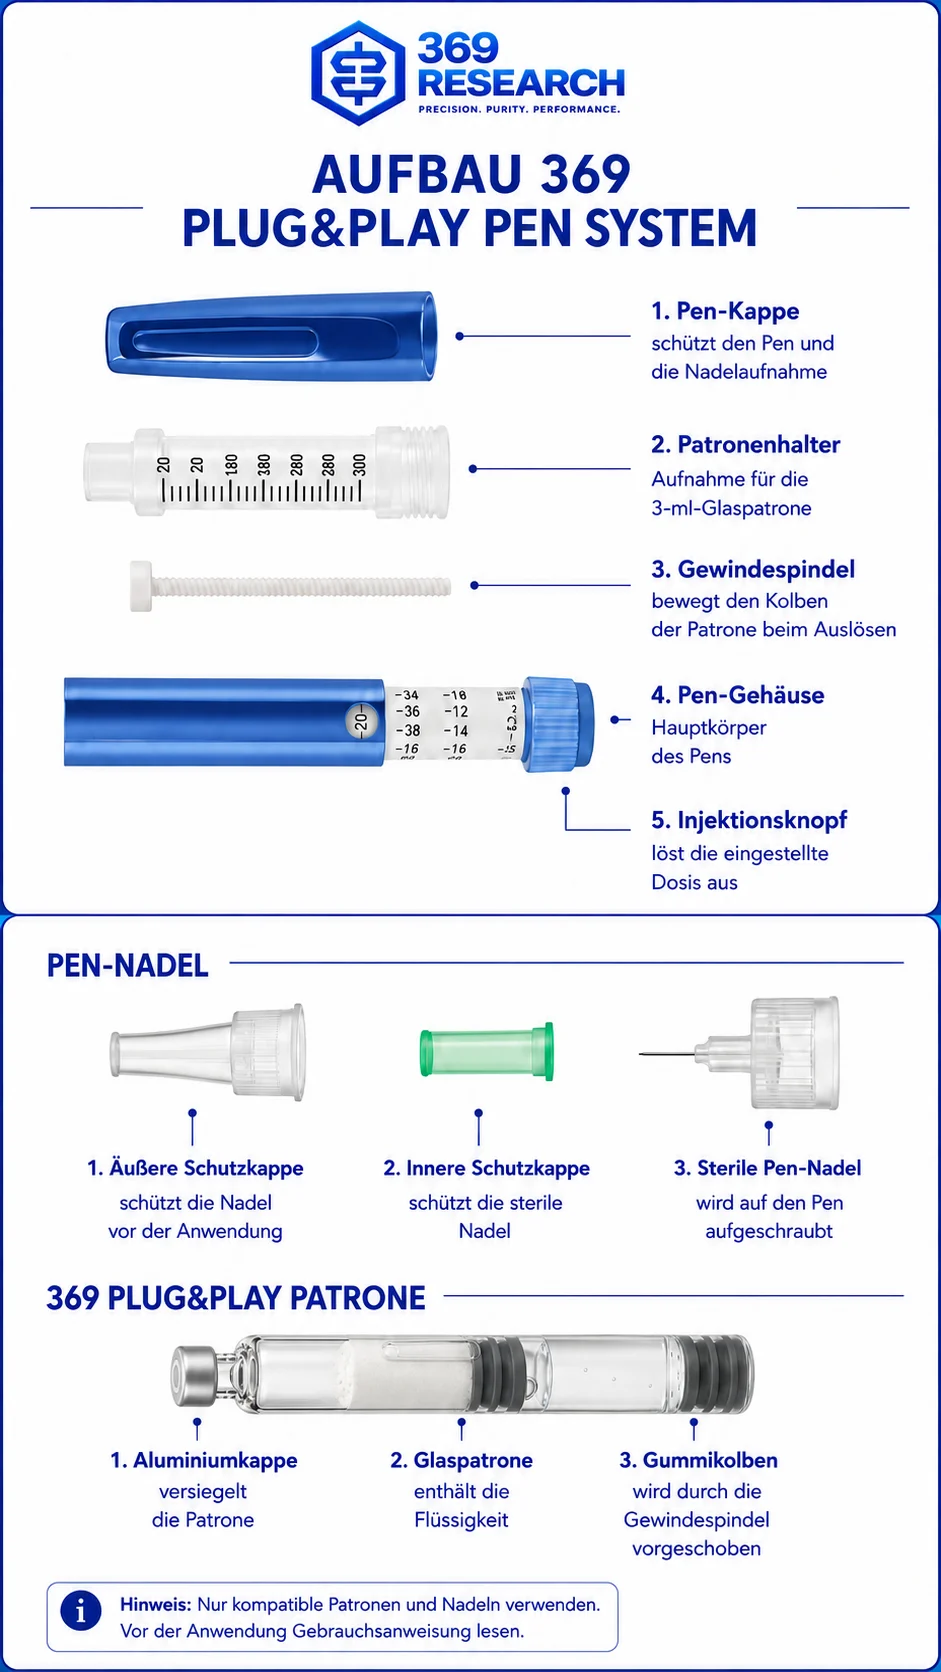
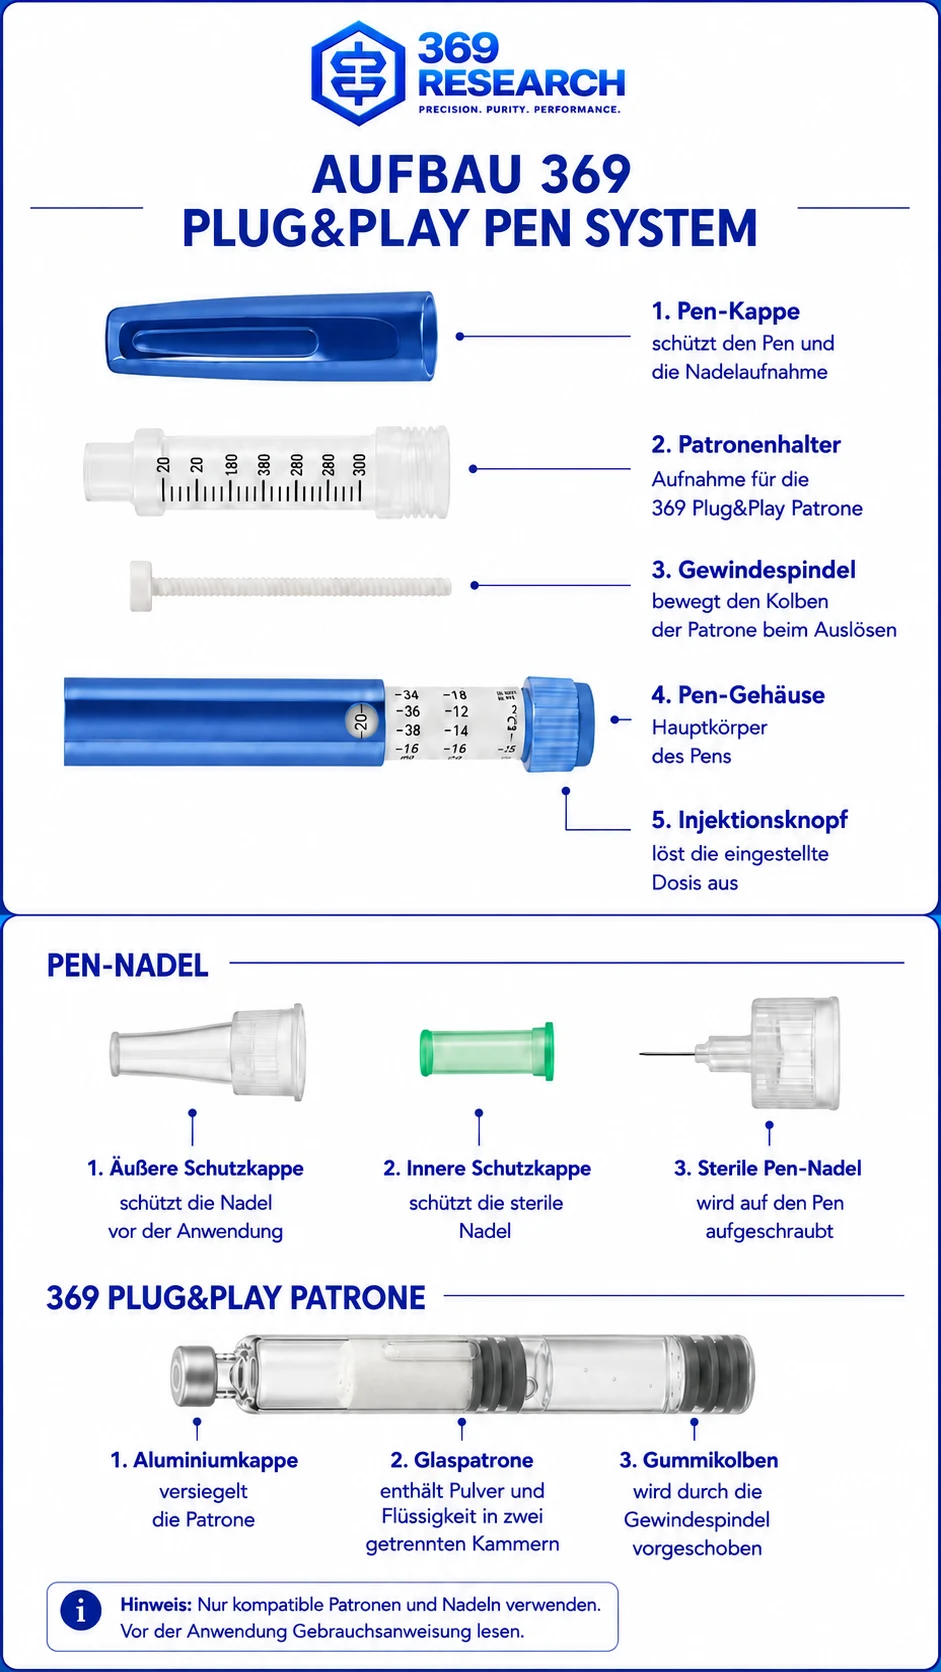
fix: replace internal copy with concise 369 Plug&Play product presentation

diff --git a/src/components/SchemaOrg.tsx b/src/components/SchemaOrg.tsx
@@ -18,7 +18,7 @@ export default function SchemaOrg() {
       "@context": "https://schema.org",
       "@type": "WebPage",
       name: "Der erste echte Peptid-Pen Europas | 369 Research",
-      description: "Wiederverwendbarer 369 Peptid-Pen mit austauschbaren Plug&Play Doppelkammerpatronen. Forschungsprodukt und BAC-Wasser werden erst per Klick direkt in der Patrone gemischt.",
+      description: "369 Peptid-Pen mit austauschbarer 369 Plug&Play Patrone. Ein Klick verbindet Pulver und BAC-Wasser direkt in der Patrone.",
       url: config.siteUrl,
       inLanguage: "de-DE",
       publisher: {
@@ -29,10 +29,9 @@ export default function SchemaOrg() {
     };
 
     const faqItems = [
-      ["Was ist eine 369 Plug&Play Patrone?", "Eine Doppelkammerpatrone, in der Forschungsprodukt und BAC-Wasser bis zur Aktivierung getrennt bleiben."],
+      ["Was ist eine 369 Plug&Play Patrone?", "Die 369 Plug&Play Patrone enthält Pulver und BAC-Wasser in zwei getrennten Kammern. Ein Klick verbindet beide Inhalte direkt in der Glaspatrone."],
       ["Wie funktioniert die Aktivierung?", "Ein Klick verbindet beide Kammern und mischt den Inhalt direkt in der Patrone."],
-      ["Ist gekühlter Versand erforderlich?", "Nein. Die ungeöffnete Doppelkammerpatrone wird erst bei der Aktivierung gemischt."],
-      ["Brauche ich für jedes Produkt einen neuen Pen?", "Nein. Der Pen wird wiederverwendet; nur die Plug&Play Patrone wird gewechselt."],
+      ["Kann ich den Pen wiederverwenden?", "Ja. Du behältst den 369 Peptid-Pen und wechselst die 369 Plug&Play Patrone."],
       ["Sind die Produkte für den menschlichen Gebrauch bestimmt?", "Nein. Alle Produkte sind ausschließlich für Forschungszwecke bestimmt."],
     ];
 
@@ -50,7 +49,7 @@ export default function SchemaOrg() {
       "@context": "https://schema.org",
       "@type": "Product",
       name: `${product.name} 369 Plug&Play Patrone`,
-      description: `${product.name} als austauschbare 369 Plug&Play Doppelkammerpatrone für den wiederverwendbaren Peptid-Pen. Research Use Only.`,
+      description: `${product.name} als 369 Plug&Play Patrone für den 369 Peptid-Pen. Research Use Only.`,
       image: product.mockupImage ?? undefined,
       url: getShopProductUrl(product.shopProductId),
       brand: { "@type": "Brand", name: "369 Research" },
@@ -68,7 +67,7 @@ export default function SchemaOrg() {
       "@context": "https://schema.org",
       "@type": "Product",
       name: "369 Research Pen",
-      description: "Wiederverwendbarer 369 Peptid-Pen inklusive neuem Case und 3 Pen-Nadeln für austauschbare Plug&Play Doppelkammerpatronen. Research Use Only.",
+      description: "369 Peptid-Pen inklusive Case und 3 Pen-Nadeln. Kompatibel mit der 369 Plug&Play Patrone. Research Use Only.",
       image: penProduct?.mockupImage ?? "https://www.369research.eu/products/peptidpen-case-1.png",
       url: `${config.shopBaseUrl}/product/forscherpen`,
       brand: { "@type": "Brand", name: "369 Research" },

diff --git a/netlify/functions/merchant-feed.ts b/netlify/functions/merchant-feed.ts
@@ -32,8 +32,8 @@ export const handler: Handler = async () => {
 
     return `  <item>
     <g:id>${p.shopProductId}-patrone</g:id>
-    <g:title>${escapeXml(p.name)} — 369 Plug&amp;Play Doppelkammerpatrone</g:title>
-    <g:description>${escapeXml(`${p.name} als austauschbare 369 Plug&Play Doppelkammerpatrone. Forschungsprodukt und BAC-Wasser bleiben bis zur Aktivierung getrennt. Research Use Only.`)}</g:description>
+    <g:title>${escapeXml(p.name)} — 369 Plug&amp;Play Patrone</g:title>
+    <g:description>${escapeXml(`${p.name} als 369 Plug&Play Patrone. Pulver und BAC-Wasser bleiben bis zur Aktivierung getrennt. Research Use Only.`)}</g:description>
     <g:link>${productUrl}</g:link>
     <g:image_link>${escapeXml(p.image || p.mockupImage || PEN_IMAGE)}</g:image_link>
     <g:condition>new</g:condition>
@@ -41,7 +41,7 @@ export const handler: Handler = async () => {
     <g:price>${patronenPreis} EUR</g:price>
     <g:brand>369 Research</g:brand>
     <g:google_product_category>5765</g:google_product_category>
-    <g:product_type>Peptide &gt; Plug&Play Patronen &gt; Plug&amp;Play Patronen</g:product_type>
+    <g:product_type>Peptide &gt; 369 Plug&amp;Play Patrone</g:product_type>
     <g:identifier_exists>no</g:identifier_exists>
     <g:adult>no</g:adult>
     <g:custom_label_0>PlugPlay</g:custom_label_0>
@@ -55,7 +55,7 @@ export const handler: Handler = async () => {
   const penItem = `  <item>
     <g:id>forscherpen-369research</g:id>
     <g:title>Peptidpen 369 Research mit Case und 3 Pen-Nadeln</g:title>
-    <g:description>Wiederverwendbarer 369 Research Peptid-Pen inklusive Case und 3 Pen-Nadeln für austauschbare Plug&amp;Play Doppelkammerpatronen. Research Use Only.</g:description>
+    <g:description>369 Peptid-Pen inklusive Case und 3 Pen-Nadeln. Kompatibel mit der 369 Plug&amp;Play Patrone. Research Use Only.</g:description>
     <g:link>${PEN_BUY_URL}</g:link>
     <g:image_link>${PEN_IMAGE}</g:image_link>
     <g:condition>new</g:condition>
@@ -75,9 +75,9 @@ export const handler: Handler = async () => {
   const xml = `<?xml version="1.0" encoding="UTF-8"?>
 <rss version="2.0" xmlns:g="http://base.google.com/ns/1.0">
   <channel>
-    <title>Peptidpen &amp; Plug&Play Patronen — Plug&amp;Play Patrone für Peptide | 369 Research</title>
+    <title>369 Peptid-Pen &amp; 369 Plug&amp;Play Patrone | 369 Research</title>
     <link>https://www.peptidpen.de</link>
-    <description>369 Plug&amp;Play Doppelkammerpatronen für den wiederverwendbaren Peptid-Pen. Research Use Only.</description>
+    <description>369 Plug&amp;Play Patrone für den 369 Peptid-Pen. Research Use Only.</description>
 ${penItem}
 ${items.join("\n")}
   </channel>

diff --git a/src/components/FaqSection.tsx b/src/components/FaqSection.tsx
@@ -3,31 +3,19 @@ import { useState } from "react";
 const faqs = [
   {
     q: "Was ist eine 369 Plug&Play Patrone?",
-    a: "Eine austauschbare Doppelkammerpatrone für den 369 Peptid-Pen. Das lyophilisierte Forschungsprodukt und das BAC-Wasser befinden sich bis zur Aktivierung getrennt in zwei Kammern.",
+    a: "Die 369 Plug&Play Patrone enthält Pulver und BAC-Wasser in zwei getrennten Kammern. Ein Klick verbindet beide Inhalte direkt in der Glaspatrone.",
   },
   {
     q: "Wie wird die Patrone aktiviert?",
     a: "Durch einen Klick wird die Verbindung zwischen den Kammern geöffnet. Das BAC-Wasser gelangt zum Forschungsprodukt und beides wird direkt in der Patrone vermischt.",
   },
   {
-    q: "Werden die Patronen fertig gemischt geliefert?",
-    a: "Nein. Forschungsprodukt und BAC-Wasser bleiben während Lagerung und Versand getrennt. Die Vermischung erfolgt erst bei der Aktivierung der Doppelkammerpatrone.",
-  },
-  {
-    q: "Ist gekühlter Versand notwendig?",
-    a: "Nein. Da der Inhalt erst bei der Aktivierung gemischt wird, ist für den Versand der ungeöffneten Plug&Play Doppelkammerpatrone keine Kühlkette erforderlich.",
-  },
-  {
     q: "Was enthält das Peptid-Pen Set für 49 €?",
-    a: "Den wiederverwendbaren 369 Peptid-Pen, das neue Case und drei Pen-Nadeln. Die gewünschte Plug&Play Patrone wird separat ausgewählt.",
+    a: "Den wiederverwendbaren 369 Peptid-Pen, das Case und drei Pen-Nadeln. Die 369 Plug&Play Patrone wählst du separat aus.",
   },
   {
-    q: "Gibt es einen Aufpreis für das Patronenformat?",
-    a: "Nein. Jede 369 Plug&Play Patrone hat einen eigenen festen Preis. Es gibt keinen pauschalen Aufpreis auf einen Vial-Preis.",
-  },
-  {
-    q: "Welche Produkte sind als Patrone erhältlich?",
-    a: "Passende injizierbare Forschungsprodukte. Nasale oder orale Produkte wie Semax und Adamax werden nicht als Plug&Play Patrone angeboten.",
+    q: "Kann ich den Pen wiederverwenden?",
+    a: "Ja. Du behältst den 369 Peptid-Pen und wechselst die 369 Plug&Play Patrone.",
   },
   {
     q: "Gelten die Mengenrabatte auch für Patronen?",
@@ -35,7 +23,7 @@ const faqs = [
   },
   {
     q: "Wie funktionieren Bestellung und Banküberweisung?",
-    a: "Die ausgewählte Patrone wird im bestehenden 369 Research Shop bestellt. Der Checkout zeigt die verfügbaren Zahlungsarten; bei Banküberweisung werden dort die bunq-Zahlungsdaten für die Bestellung angezeigt.",
+    a: "Du bestellst bei 369 Research. Bei Banküberweisung erhältst du im Bestellablauf die Bankverbindung und den Verwendungszweck.",
   },
 ];
 

diff --git a/src/components/SystemExplainer.tsx b/src/components/SystemExplainer.tsx
@@ -1,49 +1,17 @@
-const steps = [
-  {
-    image: "/assets/plugplay-doppelkammer.webp",
-    eyebrow: "GETRENNT GELAGERT",
-    title: "ZWEI KAMMERN. EINE PATRONE.",
-    text: "Das lyophilisierte Forschungsprodukt und das BAC-Wasser befinden sich getrennt in der 369 Plug&Play Patrone.",
-  },
-  {
-    image: "/assets/plugplay-mechanik.webp",
-    eyebrow: "MIT EINEM KLICK",
-    title: "VERBINDEN UND AKTIVIEREN.",
-    text: "Der Klick öffnet die Verbindung zwischen beiden Kammern. Das BAC-Wasser gelangt direkt zum Forschungsprodukt.",
-  },
-  {
-    image: "/assets/plugplay-aktiviert.webp",
-    eyebrow: "DIREKT IN DER PATRONE",
-    title: "MISCHEN. EINSETZEN. FORSCHEN.",
-    text: "Nach vollständiger Vermischung wird die Patrone in den wiederverwendbaren 369 Peptid-Pen eingesetzt.",
-  },
-];
-
 export default function SystemExplainer() {
   return (
     <section id="system" className="system-section">
       <div className="container mx-auto px-4">
         <div className="system-intro">
-          <div className="staging-kicker">DAS EINZIGARTIGE SYSTEM</div>
-          <h2 className="staging-heading">EIN KLICK.<br /><span>DIREKT GEMISCHT.</span></h2>
+          <h2 className="staging-heading">EIN KLICK.<br /><span>ALLES IN EINER PATRONE.</span></h2>
           <p>
-            Keine fertig gemischte Patrone und keine Kühlkette: Die zwei Kammern halten
-            Forschungsprodukt und BAC-Wasser bis zur Aktivierung voneinander getrennt.
+            Die zweigeteilte Glaspatrone enthält Pulver und BAC-Wasser in getrennten Kammern.
+            Ein Klick verbindet beides – ohne separates Umfüllen.
           </p>
         </div>
 
-        <div className="mechanism-grid">
-          {steps.map((step, index) => (
-            <article className="mechanism-card" key={step.title}>
-              <div className="mechanism-number">0{index + 1}</div>
-              <img src={step.image} alt={step.title} loading="lazy" />
-              <div className="mechanism-copy">
-                <span>{step.eyebrow}</span>
-                <h3>{step.title}</h3>
-                <p>{step.text}</p>
-              </div>
-            </article>
-          ))}
+        <div className="max-w-xl mx-auto">
+          <img src="/assets/plugplay-doppelkammer.webp" alt="369 Plug&Play Patrone mit getrenntem Pulver und BAC-Wasser" loading="lazy" className="w-full max-h-[420px] object-contain" />
         </div>
       </div>
     </section>

diff --git a/index.html b/index.html
@@ -5,8 +5,8 @@
     <meta name="viewport" content="width=device-width, initial-scale=1.0" />
 
     <title>Der erste echte Peptid-Pen Europas | 369 Research</title>
-    <meta name="description" content="369 Peptid-Pen mit austauschbaren Plug&Play Doppelkammerpatronen. Ein Klick verbindet Forschungsprodukt und BAC-Wasser direkt in der Patrone." />
-    <meta name="keywords" content="Peptid-Pen, Peptidpen, Forschungspen, 369 Plug&Play Patrone, Doppelkammerpatrone, 369 Research" />
+    <meta name="description" content="369 Peptid-Pen und 369 Plug&Play Patrone. Ein Klick verbindet Pulver und BAC-Wasser direkt in der Patrone. Entdecke das Set mit Case und die Produktauswahl." />
+    <meta name="keywords" content="Peptid-Pen, Peptidpen, 369 Plug&Play Patrone, 369 Research" />
     <link rel="canonical" href="https://peptidpen.de/" />
     <link rel="alternate" hreflang="de" href="https://peptidpen.de/" />
     <link rel="alternate" hreflang="x-default" href="https://peptidpen.de/" />
@@ -14,7 +14,7 @@
     <meta property="og:type" content="website" />
     <meta property="og:url" content="https://peptidpen.de/" />
     <meta property="og:title" content="Der erste echte Peptid-Pen Europas | 369 Research" />
-    <meta property="og:description" content="Austauschbare 369 Plug&Play Doppelkammerpatronen. Ein Klick verbindet beide Kammern und mischt direkt in der Patrone." />
+    <meta property="og:description" content="369 Plug&Play Patrone: Ein Klick verbindet Pulver und BAC-Wasser direkt in der Patrone." />
     <meta property="og:image" content="https://www.369research.eu/products/peptidpen-case-1.png" />
     <meta property="og:image:width" content="1200" />
     <meta property="og:image:height" content="630" />
@@ -24,7 +24,7 @@
 
     <meta name="twitter:card" content="summary_large_image" />
     <meta name="twitter:title" content="Der erste echte Peptid-Pen Europas" />
-    <meta name="twitter:description" content="369 Plug&Play Doppelkammerpatronen: getrennt gelagert, per Klick direkt in der Patrone gemischt." />
+    <meta name="twitter:description" content="369 Peptid-Pen und 369 Plug&Play Patrone. Ein Klick. Alles in einer Patrone." />
     <meta name="twitter:image" content="https://www.369research.eu/products/peptidpen-case-1.png" />
 
     <link rel="preconnect" href="https://fonts.googleapis.com" />

diff --git a/src/components/ProductsSection.tsx b/src/components/ProductsSection.tsx
@@ -58,8 +58,7 @@ function ProductCard({ product }: { product: ShopProduct }) {
         )}
 
         <div className="fixed-product-price mb-4">
-          <span>FESTER PATRONENPREIS</span>
-          <strong>ab {cartridgePrice} €</strong>
+          <strong>{hasVariants ? "ab " : ""}{cartridgePrice} €</strong>
         </div>
 
         <div className="flex items-center gap-1.5 mb-4">
@@ -104,11 +103,9 @@ export default function ProductsSection() {
     <section id="produkte" className="products-lab-section">
       <div className="container mx-auto px-4">
         <div className="text-center mb-12">
-          <span className="staging-kicker">DIREKTE PRODUKTAUSWAHL</span>
-          <h2 className="staging-heading">DEIN PRODUKT.<br /><span>DEINE PLUG&amp;PLAY PATRONE.</span></h2>
+          <h2 className="staging-heading">369 Plug&amp;Play Patrone</h2>
           <p className="section-subtitle mx-auto text-center mt-5">
-            Wähle das gewünschte Forschungsprodukt und die verfügbare Stärke.
-            Angezeigt werden ausschließlich passende injizierbare Forschungsprodukte.
+            Entdecke die Auswahl und wähle dein Produkt in der gewünschten Stärke.
           </p>
         </div>
 
@@ -167,7 +164,7 @@ export default function ProductsSection() {
 
         {!loading && (
           <div className="text-center mt-8 text-gray-400 text-sm">
-            {filtered.length} passende Plug&amp;Play Patronen
+            {filtered.length} Produkte
           </div>
         )}
 

diff --git a/src/components/CheckoutSection.tsx b/src/components/CheckoutSection.tsx
@@ -1,7 +1,7 @@
 const steps = [
-  ["01", "PATRONE WÄHLEN", "Forschungsprodukt und verfügbare Stärke direkt auf peptidpen.de auswählen."],
-  ["02", "IM HAUPTSHOP PRÜFEN", "Du landest auf der passenden Produktseite von 369 Research. Preis, Bestand und Mengenrabatt kommen aus dem bestehenden Shopsystem."],
-  ["03", "SICHER ABSCHLIESSEN", "Warenkorb und Checkout laufen vollständig über 369research.eu. Bei Banküberweisung werden die bunq-Zahlungsdaten im Bestellablauf angezeigt."],
+  ["01", "AUSWÄHLEN", "Wähle dein Produkt und die gewünschte Stärke."],
+  ["02", "BESTELLEN", "Lege deine Auswahl bei 369 Research in den Warenkorb."],
+  ["03", "BEZAHLEN", "Bei Banküberweisung erhältst du die Bankverbindung und den Verwendungszweck im Bestellablauf."],
 ];
 
 export default function CheckoutSection() {
@@ -10,8 +10,7 @@ export default function CheckoutSection() {
       <div className="container mx-auto px-4">
         <div className="checkout-intro">
           <div className="staging-kicker staging-kicker-light">BESTELLUNG &amp; ZAHLUNG</div>
-          <h2>DEINE AUSWAHL.<br /><span>DER BESTEHENDE 369 CHECKOUT.</span></h2>
-          <p>peptidpen.de erklärt und filtert. Bestellung, Zahlung, Lagerabzug und Versand bleiben vollständig im bewährten 369 Research Shop.</p>
+          <h2>IN WENIGEN SCHRITTEN<br /><span>ZU DEINER BESTELLUNG.</span></h2>
         </div>
         <div className="checkout-steps">
           {steps.map(([number, title, text]) => (

diff --git a/src/components/PenSystemBanner.tsx b/src/components/PenSystemBanner.tsx
@@ -13,8 +13,7 @@ export default function PenSystemBanner() {
             <div className="staging-kicker staging-kicker-light">AUFBAU 369</div>
             <h2>DER PEN BLEIBT.<br /><span>DIE PATRONE WECHSELT.</span></h2>
             <p>
-              Der 369 Peptid-Pen ist wiederverwendbar und mit den austauschbaren
-              369 Plug&amp;Play Patronen kompatibel.
+              Dein wiederverwendbarer 369 Peptid-Pen. Mit Case und drei Pen-Nadeln.
             </p>
             <div className="pen-price-card">
               <span>PEPTID-PEN SET</span>
@@ -24,16 +23,12 @@ export default function PenSystemBanner() {
             <a href={getPenBuyUrl()} target="_blank" rel="noopener noreferrer" className="staging-light-button">
               PEPTID-PEN KAUFEN
             </a>
-            <div className="fixed-price-note">
-              <strong>FESTE PATRONENPREISE</strong>
-              <span>Kein Aufpreis-Modell. Jede Patrone hat ihren eigenen verbindlichen Produktpreis.</span>
-            </div>
           </div>
 
           <div className="pen-infographic">
             <img
               src="/assets/aufbau-369-plugplay.webp"
-              alt="Aufbau des 369 Plug&Play Pen-Systems mit Doppelkammerpatrone"
+              alt="Aufbau des 369 Peptid-Pens mit 369 Plug&Play Patrone"
               loading="lazy"
             />
           </div>

diff --git a/src/components/HeroSection.tsx b/src/components/HeroSection.tsx
@@ -41,15 +41,13 @@ export default function HeroSection() {
               EUROPAS.
             </h1>
             <p className="staging-hero-copy">
-              Mit austauschbaren <strong>369 Plug&amp;Play Doppelkammerpatronen.</strong>
-              Forschungsprodukt und BAC-Wasser bleiben getrennt. Ein Klick verbindet beide
-              Kammern und mischt den Inhalt direkt in der Patrone.
+              Mit der austauschbaren <strong>369 Plug&amp;Play Patrone.</strong>{" "}
+              Ein Klick. Pulver und BAC-Wasser vermischen sich direkt in der Patrone.
             </p>
             <div className="flex flex-col sm:flex-row gap-3 mt-8">
               <a href="#produkte" className="staging-primary-button">PATRONEN ENTDECKEN</a>
               <a href="#system" className="staging-outline-button">SO FUNKTIONIERT PLUG&amp;PLAY</a>
             </div>
-            <div className="staging-note">Ein Pen. Austauschbare Patronen. Feste Patronenpreise.</div>
           </div>
 
           <div className="staging-product-stage">

diff --git a/src/components/StickyCtaBar.tsx b/src/components/StickyCtaBar.tsx
@@ -14,9 +14,9 @@ export default function StickyCtaBar() {
         <div className="flex items-center justify-between gap-4">
           <div className="min-w-0">
             <div className="text-white font-semibold text-sm truncate">
-              Der erste echte Peptid-Pen Europas
+              369 Research
             </div>
-            <div className="text-blue-300/70 text-xs hidden sm:block">Mit 369 Plug&amp;Play Doppelkammerpatronen</div>
+            <div className="text-blue-300/70 text-xs hidden sm:block">369 Plug&amp;Play Patrone</div>
           </div>
 
           <div className="flex items-center gap-2 flex-shrink-0">

diff --git a/src/components/Footer.tsx b/src/components/Footer.tsx
@@ -11,8 +11,7 @@ export default function Footer() {
           <div>
             <div className="text-xl font-bold mb-3">Peptidpen.de</div>
             <p className="text-blue-200/60 text-sm leading-relaxed mb-4">
-              Der erste echte Peptid-Pen Europas mit austauschbaren
-              369 Plug&amp;Play Doppelkammerpatronen.
+              369 Peptid-Pen und 369 Plug&amp;Play Patrone.
             </p>
             <div className="text-xs text-blue-200/40">
               Ein Angebot von 369 Research

diff --git a/src/components/DiscountSection.tsx b/src/components/DiscountSection.tsx
@@ -16,7 +16,7 @@ export default function DiscountSection() {
             </h2>
             <p className="discount-copy">
               Gilt für den gesamten Warenkorb und ist nicht mit anderen Rabatten kombinierbar.
-              Der Rabatt wird im Hauptshop automatisch berücksichtigt.
+              Wird automatisch im Warenkorb abgezogen.
             </p>
           </div>
           <div className="discount-tiers">
